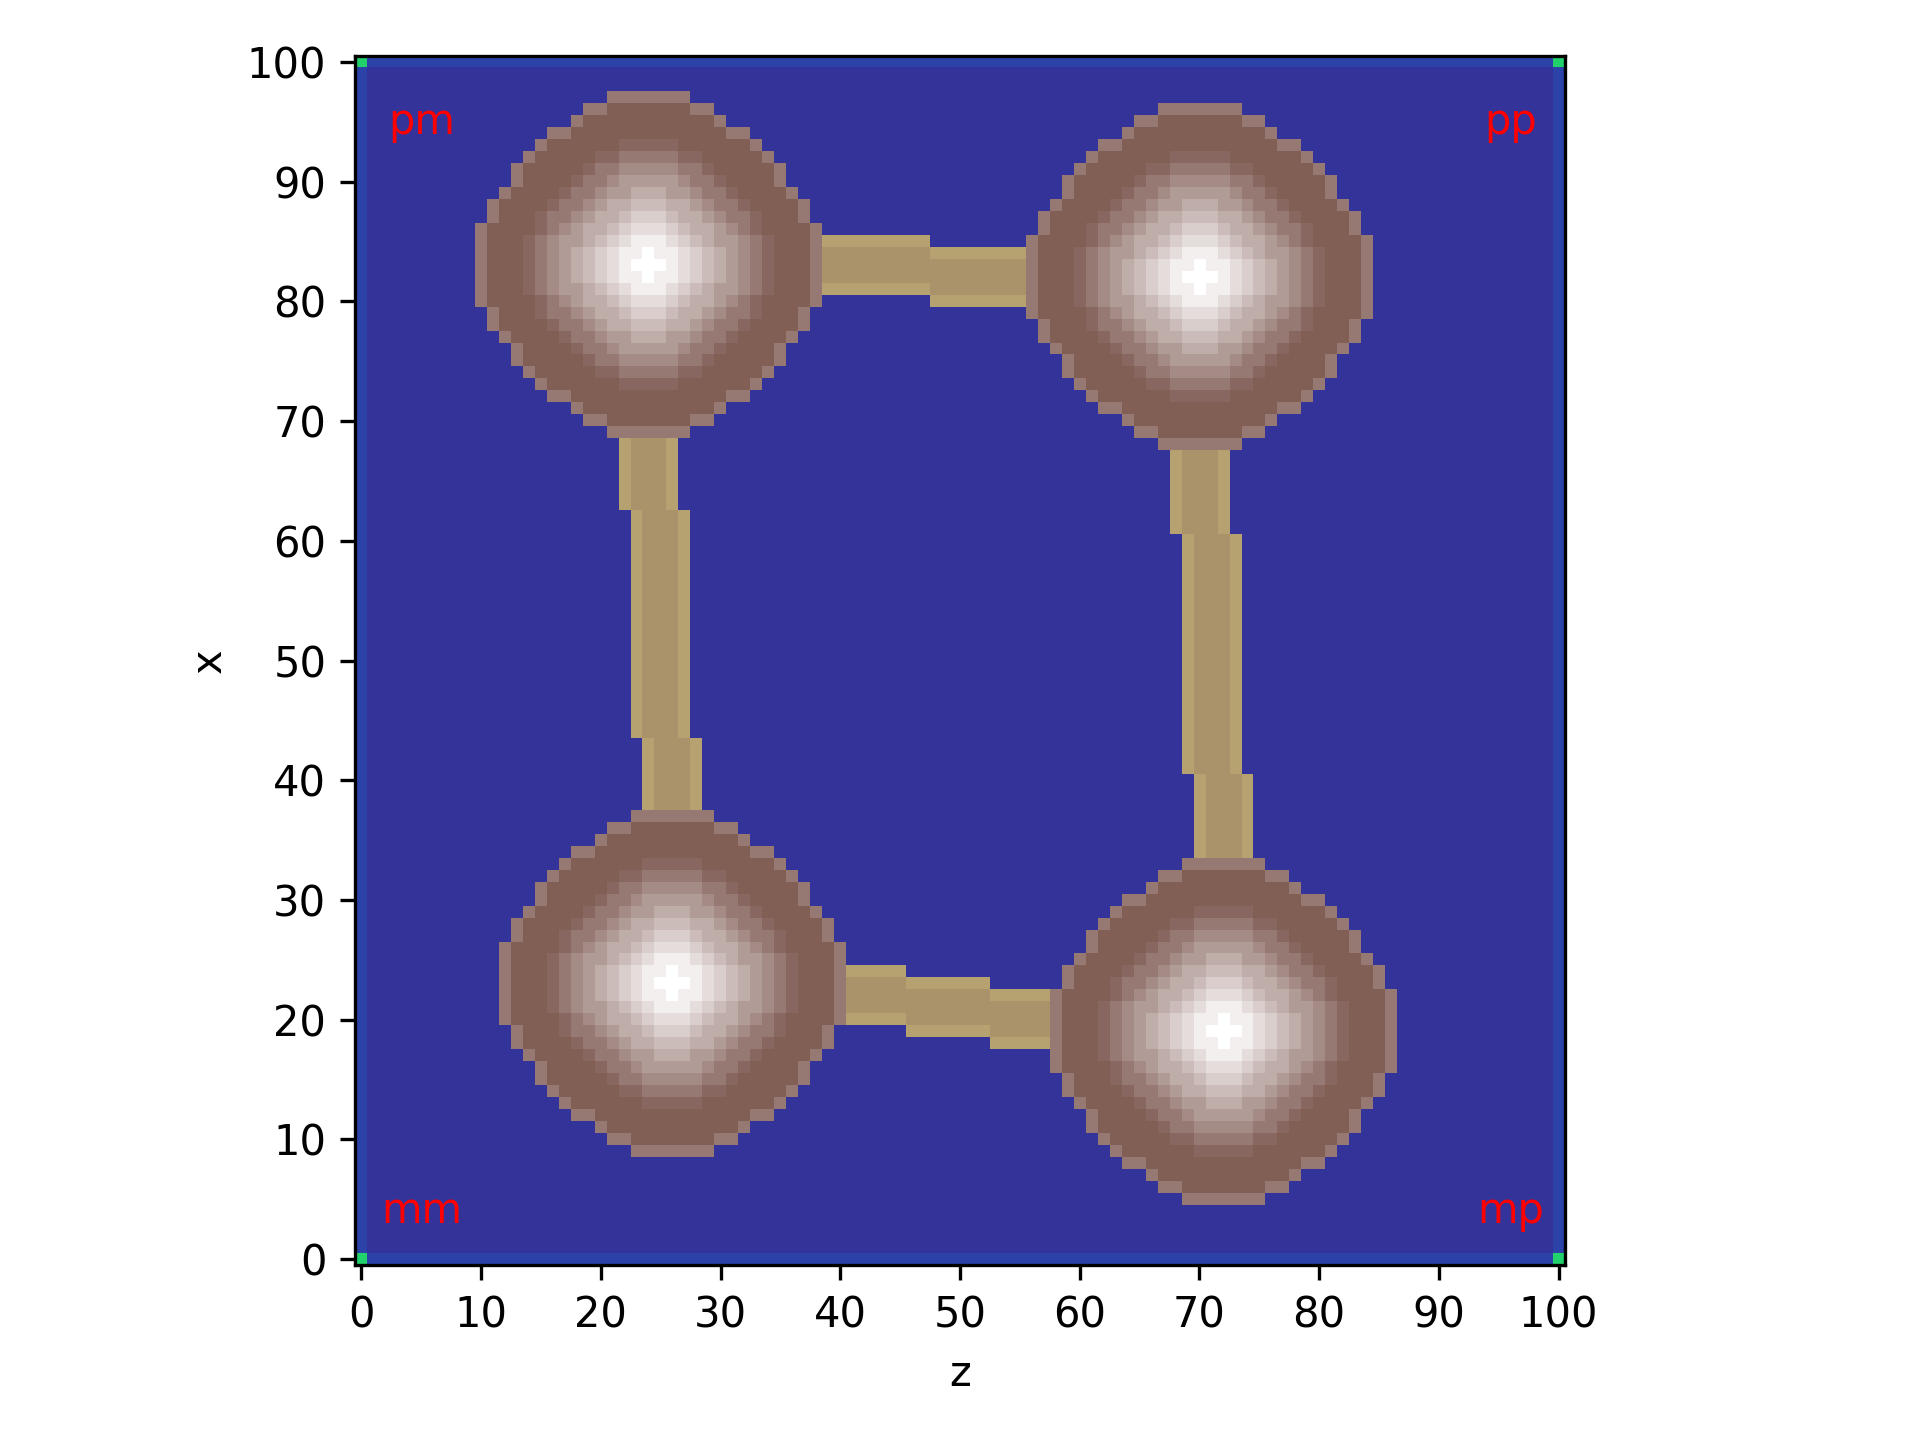
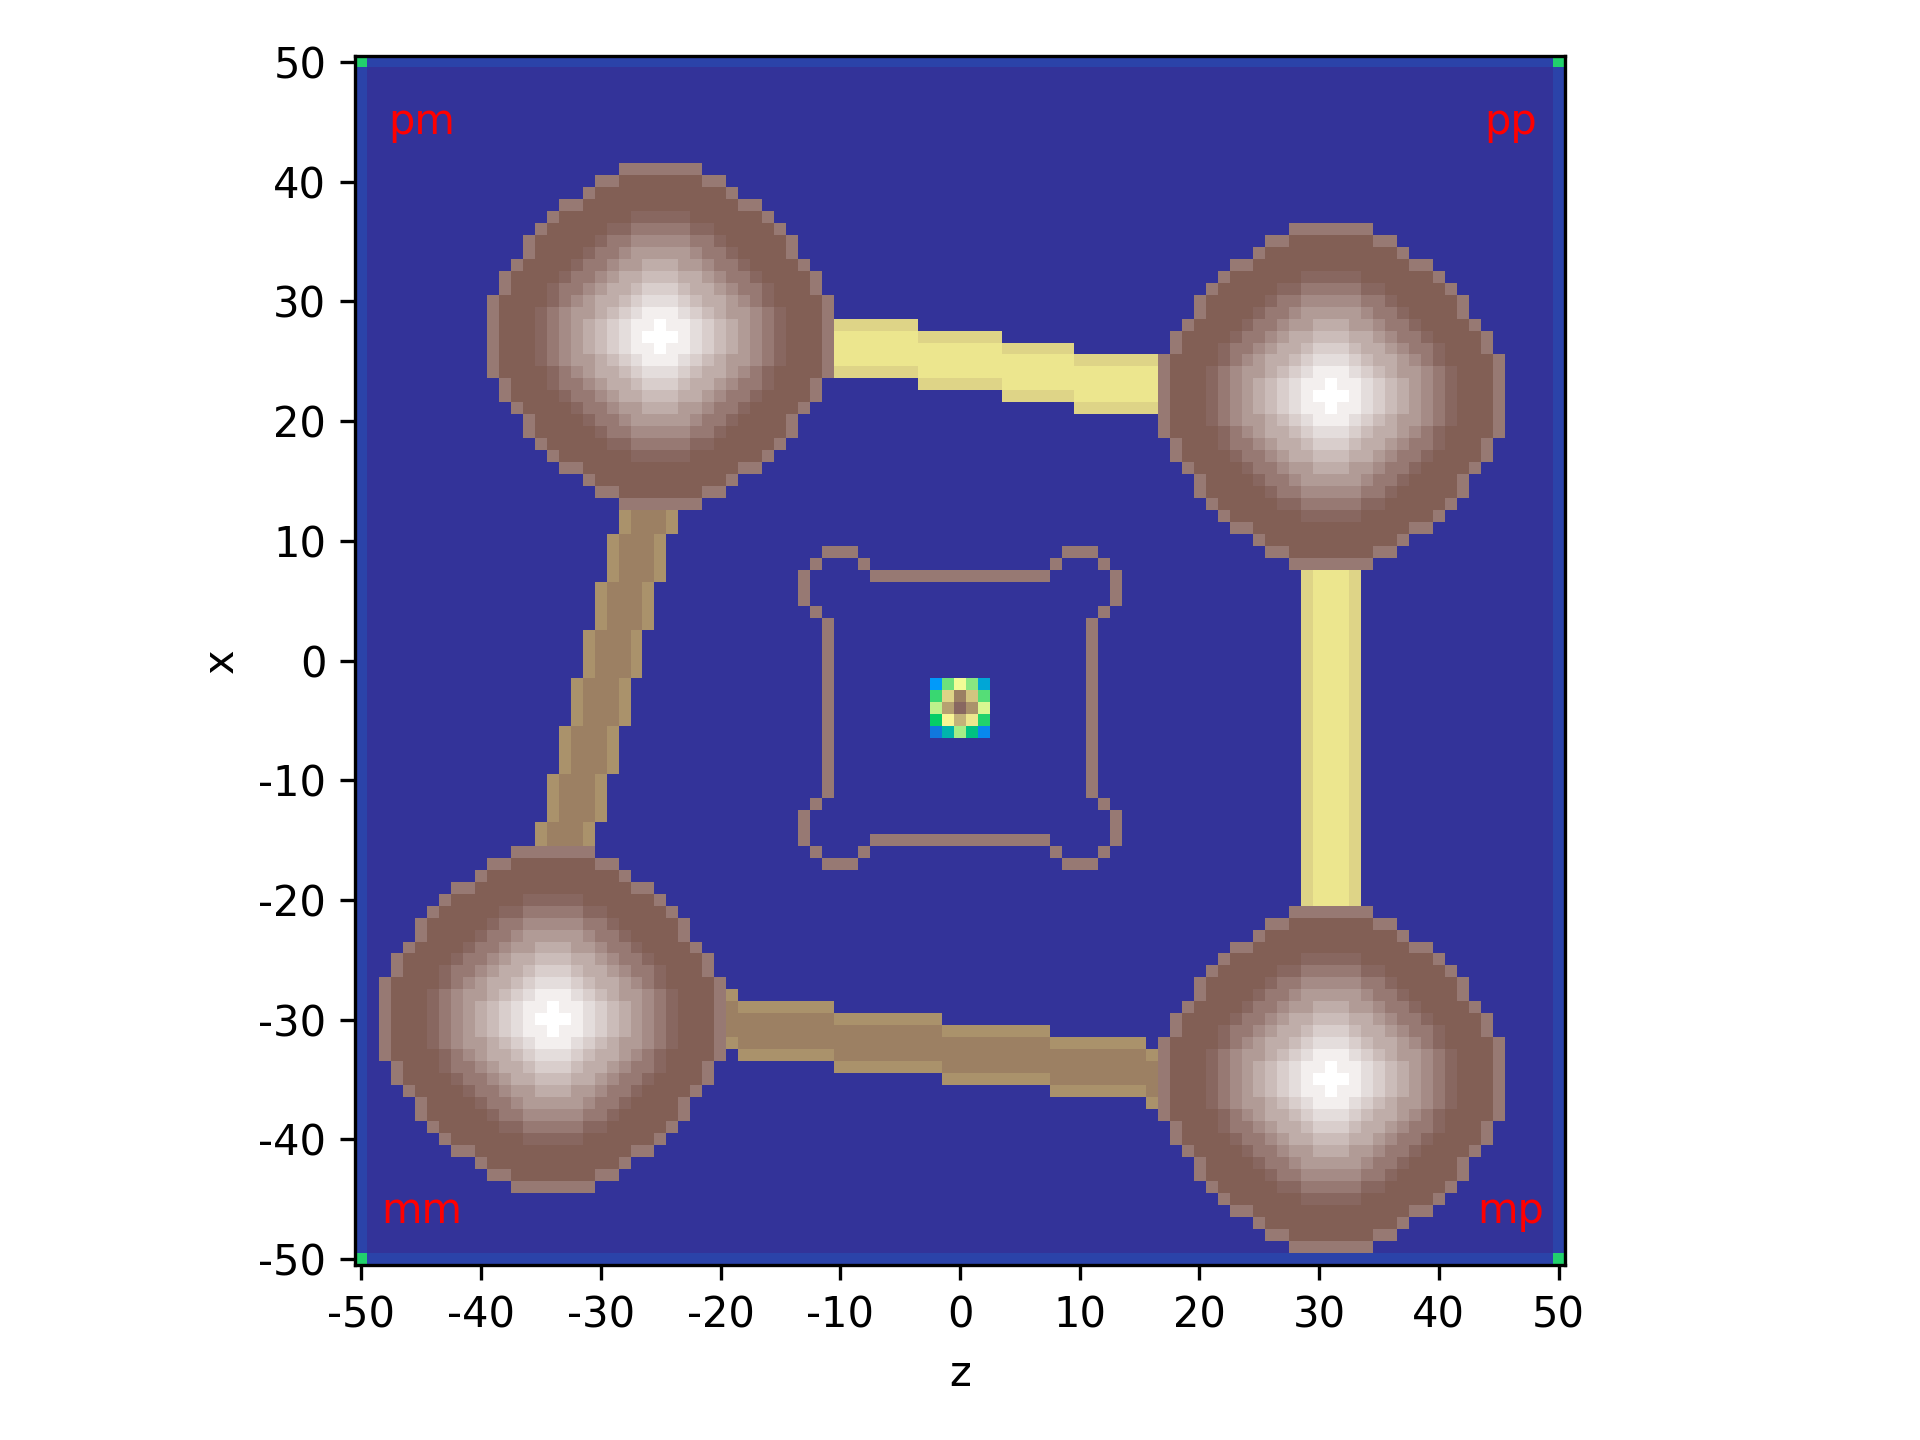
quick save

diff --git a/src/builders.py b/src/builders.py
@@ -13,7 +13,11 @@ from gdpc.vector_tools import addY
 from buildings import Tower
 
 
-def buildBounds(editor: Editor, buildRect: Box, y: int) -> None:
+def buildBounds(
+        editor: Editor,
+        buildRect: Box,
+        y: int
+    ) -> None:
     """ Place the bounds of the build area. """
 
     center: ivec3 = addY(buildRect.center, y)
@@ -32,6 +36,58 @@ def buildBounds(editor: Editor, buildRect: Box, y: int) -> None:
             xz + ivec3(0, 10, 0),
             Block(f'{color}_concrete')
         )
+
+
+def buildCastle(
+        editor: Editor,
+        origin: ivec3,
+        palette: list[Block]
+    ) -> None:
+    """ Place the castle in the build area. """
+
+    height = 30
+    
+    # place outline walls
+    for x1, z1, x2, z2 in [
+        (-1, -1, -1, +1),
+        (-1, -1, +1, -1),
+        (+1, +1, -1, +1),
+        (+1, +1, +1, -1)
+        ]:
+        xz1 = origin + ivec3(x1*11, 0, z1*11)
+        xz2 = origin + ivec3(x2*11, height, z2*11)
+        geometry.placeCuboid(editor, xz1, xz2, palette)
+
+    # place cylinders (radius 3) at edges of the castle
+    for x, z in [(-1, -1), (-1, +1), (+1, +1), (+1, -1)]:
+        xz = origin + ivec3(x * 10, 0, z * 10)
+        r = 3
+        geometry.placeFittingCylinder(
+            editor,
+            xz + ivec3(-r, 0, -r),
+            xz + ivec3(+r, height, +r),
+            palette
+        )
+        geometry.placeFittingCylinder(
+            editor,
+            xz + ivec3(-2, 0, -2),
+            xz + ivec3(+2, height, +2),
+            Block('air')
+        )
+
+    # hollow out the castle
+    geometry.placeCuboid(
+        editor,
+        origin + ivec3(-10, 0, -10),
+        origin + ivec3(+10, height, +10),
+        Block('air')
+    )
+
+
+
+
+
+
 
 def buildTowers(
         editor: Editor,
@@ -68,12 +124,12 @@ def buildTowers(
     
     return towers
 
-def buildRoads(
+def buildBridges(
         editor: Editor,
         towers: list[Tower],
         palette: list[Block]
     ) -> None:
-    """ Place the roads between the towers. """
+    """ Place the bridges between the towers. """
 
     mm, mp, pp, pm = towers.values()
     
@@ -100,10 +156,10 @@ def _buildBridge(
         direction: str
     ) -> None:
     """ Place a bridge between two points. """
-    xrange = range(from_.x, to_.x) if from_.x < to_.x else range(from_.x, to_.x, -1)
-    zrange = range(from_.z, to_.z) if from_.z < to_.z else range(from_.z, to_.z, -1)
+    xrange = range(from_.x+1, to_.x) if from_.x < to_.x else range(from_.x-1, to_.x, -1)
+    zrange = range(from_.z+1, to_.z) if from_.z < to_.z else range(from_.z-1, to_.z, -1)
     y = from_.y
-    placeRoof: bool = np.random.rand() < .99
+    placeRoof: bool = np.random.rand() < .75
     arange = xrange if direction == 'x' else zrange
 
     def _placeBlock(i: int, j: int, y: int, block: Block) -> None:
@@ -118,6 +174,8 @@ def _buildBridge(
                 block
             )
 
+    supportPalette = [Block(id, {'type': 'top'}) for id in 5 * ['stone_brick_slab'] + 3 * ['mossy_stone_brick_slab']]
+    
     for a in arange:
         # calculate where the center of the road is with trigonometry
         if direction == 'x':
@@ -126,16 +184,45 @@ def _buildBridge(
             b = round(from_.x + (to_.x - from_.x) * (a - from_.z) / (to_.z - from_.z))
         # build base of the bridge
         for db in [-2, -1, 0, 1, 2]:
-            for dy in [0, 1]:
+            for dy in [-1, 0, 1]:
+                if dy == -1:
+                    if abs(db) < 2:
+                        _placeBlock(a, b + db, y-1, supportPalette)
+                        continue
+                    else:
+                        continue
                 if abs(db) < 2 and dy == 1:
                     continue
                 _placeBlock(a, b + db, y + dy, palette)
             # check if we should place a roof, otherwise we just skip the rest
             if not placeRoof:
                 continue
+            # determine what kind of stairs to place for the roof
+            stairsDirections = getStairsDirection(direction, arange.step)
+            stairsA = 10 * [Block('stone_brick_stairs', {'facing': stairsDirections[0], 'half': 'bottom'})] + \
+                5 * [Block('mossy_stone_brick_stairs', {'facing': stairsDirections[0], 'half': 'bottom'})]
+            stairsB = 10 * [Block('stone_brick_stairs', {'facing': stairsDirections[1], 'half': 'bottom'})] + \
+                5 * [Block('mossy_stone_brick_stairs', {'facing': stairsDirections[1], 'half': 'bottom'})]
             for db in [-2, -1, 0, 1, 2]:
-                for dy in [4, 5]:
-                    if (abs(db) < 2 and dy == 4) or (abs(db) == 2 and dy == 5):
+                for dy in [4, 5, 6]:
+                    if (abs(db) < 2 and dy == 4):
+                        continue
+                    if (abs(db) == 2 and dy == 6):
+                        continue
+                    if (db == -2 and dy == 5):
+                        _placeBlock(a, b + db, y + dy, stairsA)
+                        continue
+                    if (db == 2 and dy == 5):
+                        _placeBlock(a, b + db, y + dy, stairsB)
+                        continue
+                    if (db == 0 and dy == 6):
+                        _placeBlock(a, b + db, y + dy, palette)
+                        continue
+                    if (db == -1 and dy == 6):
+                        _placeBlock(a, b + db, y + dy, stairsA)
+                        continue
+                    if (db == 1 and dy == 6):
+                        _placeBlock(a, b + db, y + dy, stairsB)
                         continue
                     _placeBlock(a, b + db, y + dy, palette)
             if not np.random.rand() < .15:
@@ -144,3 +231,14 @@ def _buildBridge(
             db = np.random.choice([-2, 2])
             for dy in [2, 3]:
                 _placeBlock(a, b + db, y + dy, palette)
+
+def getStairsDirection(walkDirection: str, rangeSign: int) -> tuple[str, str]:
+    """ Determine the direction of a stairs block for a bridge roof. """
+    if walkDirection == 'x' and rangeSign == 1:
+            return 'south', 'north'
+    elif walkDirection == 'x' and rangeSign == -1:
+        return 'south', 'north'
+    elif walkDirection == 'z' and rangeSign == 1:
+        return 'east', 'west'
+    elif walkDirection == 'z' and rangeSign == -1:
+        return 'east', 'west'

diff --git a/src/buildings.py b/src/buildings.py
@@ -4,6 +4,8 @@
 Builder functions to make main.py more readable.
 """
 
+import numpy as np
+
 from gdpc import Block, geometry, Editor
 from gdpc.minecraft_tools import signBlock
 from glm import ivec3
@@ -46,7 +48,9 @@ class Tower:
             )
         # add signpost on top of tower with district name
         self.placeSign(self.origin + ivec3(0, sum(self.heights)+1, 0), self.district.upper())
+        self.addEntrances()
         self.buildRoof()
+
 
     def buildRoof(self) -> None:
         # flat roof
@@ -176,4 +180,77 @@ class Tower:
             return self.origin + ivec3(-r, bottom-1, 0)
         else:
             raise ValueError(f'Invalid direction: {direction}')
+
+class SuperTree:
+
+    def __init__(
+            self,
+            editor: Editor,
+            origin: ivec3,
+            trunkHeight: int
+        ) -> None:
+        self.editor = editor
+        self.origin = origin
+        self.trunkHeight = trunkHeight
+
+        self.build()
+
+    def build(self) -> None:
+        self.buildLeaves()
+        self.buildTrunk()
+    
+    def buildTrunk(self) -> None:
         
+        r = 2
+        slice_ = np.ones((r*2+1, r*2+1))
+
+        dropRate = 0.8
+        for y in range(0, self.trunkHeight):
+
+            # build the slice
+            for x in range(-r, r+1):
+                for z in range(-r, r+1):
+                    if slice_[x+r, z+r]:
+                        self.editor.placeBlock(
+                            self.origin + ivec3(x, y, z),
+                            Block('spruce_log', {'axis': 'y'})
+                        )
+            # if more than one block is left, maybe drop one
+            if np.sum(slice_) > 1:
+                if np.random.rand() < 1 - dropRate:
+                    # check which indices that are True are the furthest away from the center (2,2)
+                    furthestIndices = np.argwhere(slice_ == True)
+                    furthestIndices = furthestIndices[np.argmax(np.linalg.norm(furthestIndices - (r, r), axis=1))]
+                    # if it is a single index, set it to False
+                    if furthestIndices.shape == (2,):
+                        slice_[furthestIndices[0], furthestIndices[1]] = False
+                    # if it is a list of indices, choose one of them randomly and set it to False
+                    else:
+                        furthestIndices = furthestIndices[np.random.randint(len(furthestIndices))]
+                        slice_[furthestIndices[0], furthestIndices[1]] = False
+                    
+                dropRate **= 2
+
+    def buildLeaves(self) -> None:
+
+        for x in range(-7, 8):
+            for z in range(-7, 8):
+                for y in range(self.trunkHeight-14, self.trunkHeight+3):
+                    # if the xz distance from the center is less than 7, place a leaf block
+                    if np.linalg.norm(np.array([x, z])) < 7:
+                        self.editor.placeBlock(
+                            self.origin + ivec3(x, y, z),
+                            Block('spruce_leaves')
+                        )
+
+    def buildBeacon(self) -> None:
+        
+        # place 3x3 beacon platform with diamond at y = -1
+        for x in range(-1, 2):
+            for z in range(-1, 2):
+                self.editor.placeBlock(
+                    self.origin + ivec3(x, -1, z),
+                    Block('block_of_diamond')
+                )
+
+        self.editor.placeBlock(self.origin, Block('beacon'))

diff --git a/src/main.py b/src/main.py
@@ -7,10 +7,11 @@ import numpy as np
 
 from gdpc.vector_tools import addY
 from gdpc import Block
+from glm import ivec3
 
 from helper import getEditor, getBuildArea, clearBuildArea, createOverview
-from buildings import Tower
-from builders import buildBounds, buildTowers, buildRoads
+from buildings import Tower, SuperTree
+from builders import buildBounds, buildCastle, buildTowers, buildBridges
 
 
 def main():
@@ -62,16 +63,23 @@ def main():
     towers: dict[str, Tower] = buildTowers(editor, buildRect, y = base, palette = palette)
     print(f'Building towers took {perf_counter() - start:.2f} seconds.')
 
-    # add entrances to towers
+    # find relative center of the towers
+    relativeCenter: ivec3 = sum([tower.origin for tower in towers.values()]) // 4
+
+    # place castle
     start = perf_counter()
-    for tower in towers.values():
-        tower.addEntrances()
-    print(f'Hollowing towers took {perf_counter() - start:.2f} seconds.')
+    buildCastle(editor, origin = relativeCenter, palette = palette)
+    print(f'Building castle took {perf_counter() - start:.2f} seconds.')
     
-    # build roads between towers' entrances
+    # build super tree inside castle
     start = perf_counter()
-    buildRoads(editor, towers, palette = palette)
-    print(f'Building roads took {perf_counter() - start:.2f} seconds.')
+    SuperTree(editor, origin = relativeCenter, trunkHeight = 30)
+    print(f'Building super tree took {perf_counter() - start:.2f} seconds.')
+
+    # build bridges between towers' entrances
+    start = perf_counter()
+    buildBridges(editor, towers, palette = palette)
+    print(f'Building bridges took {perf_counter() - start:.2f} seconds.')
 
     # create overview image with matplotlib
     createOverview(editor, buildRect)

diff --git a/src/helper.py b/src/helper.py
@@ -68,20 +68,15 @@ def createOverview(editor: Editor, buildRect: Rect) -> None:
     heightMap: np.ndarray = worldSlice.heightmaps['MOTION_BLOCKING_NO_LEAVES']
     # flip horizontally
     heightMap = np.flip(heightMap, axis=0)
+    w, h = heightMap.shape
 
     fig, ax = plt.subplots()
     ax.imshow(heightMap, cmap='terrain')
-    ax.set_xticks(np.arange(0, heightMap.shape[1], 10))
-    ax.set_yticks(np.arange(0, heightMap.shape[0], 10), np.arange(heightMap.shape[0]-1, -1, -10))
+    ax.set_xticks(np.arange(0, h, 10), np.arange(-h//2+1, h//2+1, 10))
+    ax.set_yticks(np.arange(0, w, 10), np.arange(w//2, -w//2, -10))
     ax.set_xlabel('z')
     ax.set_ylabel('x')
 
-    # ax.text(0, 0, "pm", color='red', ha='center', va='center')
-    # ax.text(0, heightMap.shape[0], "mm", color='red', ha='center', va='center')
-    # ax.text(heightMap.shape[1], 0, "pp", color='red', ha='center', va='center')
-    # ax.text(heightMap.shape[1], heightMap.shape[0], "mp", color='red', ha='center', va='center')
-
-    w, h = heightMap.shape
     for label, (x, y) in zip(['pm', 'mm', 'pp', 'mp'], [(5, 5), (5, w-5), (h-5, 5), (h-5, w-5)]):
         ax.text(x, y, label, color='red', ha='center', va='center')
 
